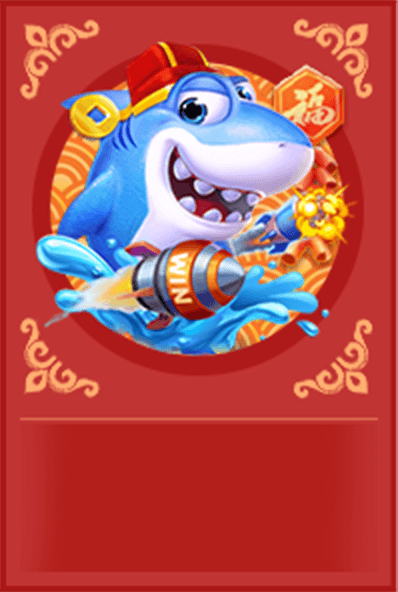
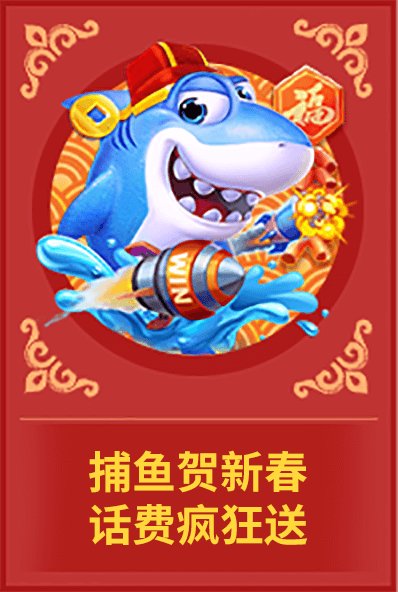
春节活动

diff --git a/src/views/springfestival/components/bonusList.vue b/src/views/springfestival/components/bonusList.vue
@@ -262,11 +262,13 @@
                     position: relative;
                     div {
                         text-align: center;
+                        height: 100%;
+                        line-height: .36rem;
                         &:nth-child(1) {
                             width: .75rem;
                         }
                         &:nth-child(2) {
-                            width: 1.2rem;
+                            width: 1.3rem;
                             overflow: hidden;
                             text-overflow: ellipsis;
                             white-space: nowrap;

diff --git a/src/views/springfestival/App.vue b/src/views/springfestival/App.vue
@@ -186,9 +186,6 @@
             <div class="package">
                 <div class="item" v-for="item in 3" @click="gotoplay(item)">
                     <div class="pic">
-                        <div class="text" v-if="item==1">
-                            捕鱼贺新春<br>话费疯狂送
-                        </div>
                     </div>
                     <div class="btn"></div>
                 </div>
